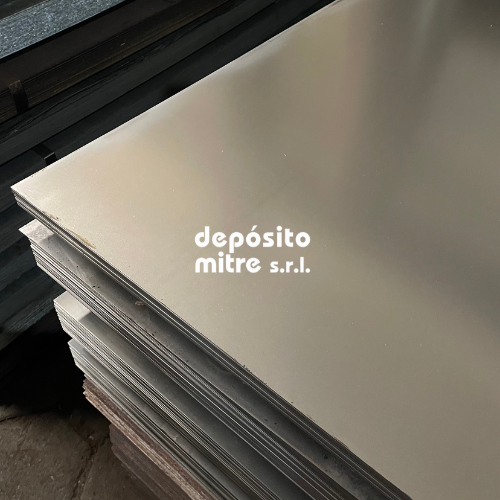
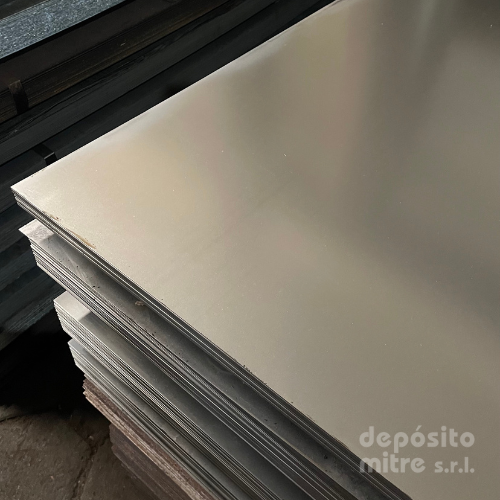
Beta 1.6.1

Changed region(s): [[0.39, 0.45, 0.63, 0.57], [0.72, 0.84, 0.96, 0.96]]

diff --git a/productos/rayada.html b/productos/rayada.html
@@ -177,7 +177,7 @@
 
         <section class="nosotros-flex">
             <div>
-                <img src="../img//marcas-de-agua/8.png" alt="im8">
+                <img src="../img/fotos-m-agua/camion-mitre(1).png" alt="im8">
             </div>
             <div>
                 <h6>Entregas en Capital Federal y Gran Buenos Aires</h6>
@@ -207,10 +207,7 @@
 
         <section class="maps">
             <div class="maps-01">
-                <div class="calidad-ternium" data-aos="fade-right" data-aos-offset="300" data-aos-easing="ease-in-sine"">
-                    <h5>Acero Ternium</h5>
-                    <p>Calidad y confianza en cada proyecto. Trabajamos con los mejores.</p>
-                   </div>
+               
             </div>
         </section>
 

diff --git a/productos/laminado-en-caliente.html b/productos/laminado-en-caliente.html
@@ -178,7 +178,7 @@
 
         <section class="nosotros-flex">
             <div>
-                <img src="../img//marcas-de-agua/8.png" alt="im8">
+                <img src="../img/marcas-de-agua/8.png" alt="im8">
             </div>
             <div>
                 <h6>Entregas en Capital Federal y Gran Buenos Aires</h6>
@@ -208,10 +208,7 @@
 
         <section class="maps">
             <div class="maps-01">
-                <div class="calidad-ternium" data-aos="fade-right" data-aos-offset="300" data-aos-easing="ease-in-sine"">
-                    <h5>Acero Ternium</h5>
-                    <p>Calidad y confianza en cada proyecto. Trabajamos con los mejores.</p>
-                   </div>
+               
             </div>
         </section>
 

diff --git a/css/style.css b/css/style.css
@@ -233,6 +233,7 @@ h1, h2 {
   right: 25px;
   width: 60px;
   transition: 2s;
+  z-index: 10;
 }
 .logos .logo-flotante-1:hover {
   transform: rotate(360deg);
@@ -466,10 +467,10 @@ hr {
   left: 0;
   right: 0;
   bottom: 0;
-  background-image: url("../img/banners/imgternium.jpg");
+  background-image: url("../img/banners/acero-02.jpg");
   background-size: cover;
   background-position: center;
-  filter: brightness(40%);
+  filter: brightness(90%);
   z-index: 1; /* Mantener el filtro detrás del contenido */
 }
 .maps .maps-01 .calidad-ternium {

diff --git a/productos/galvanizada.html b/productos/galvanizada.html
@@ -204,13 +204,9 @@
             </div>
         </section>
 
-
         <section class="maps">
             <div class="maps-01">
-                <div class="calidad-ternium" data-aos="fade-right" data-aos-offset="300" data-aos-easing="ease-in-sine"">
-                    <h5>Acero Ternium</h5>
-                    <p>Calidad y confianza en cada proyecto. Trabajamos con los mejores.</p>
-                   </div>
+               
             </div>
         </section>
 

diff --git a/scss/layout/_donde-estamos.scss b/scss/layout/_donde-estamos.scss
@@ -52,10 +52,10 @@
             left: 0;
             right: 0;
             bottom: 0;
-            background-image: url("../img/banners/imgternium.jpg");
+            background-image: url("../img/banners/acero-02.jpg");
             background-size: cover;
             background-position: center;
-            filter: brightness(40%);
+            filter: brightness(90%);
             z-index: 1; /* Mantener el filtro detrás del contenido */
         }
     

diff --git a/productos/antideslizante.html b/productos/antideslizante.html
@@ -211,10 +211,7 @@
 
         <section class="maps">
             <div class="maps-01">
-                <div class="calidad-ternium" data-aos="fade-right" data-aos-offset="300" data-aos-easing="ease-in-sine"">
-                    <h5>Acero Ternium</h5>
-                    <p>Calidad y confianza en cada proyecto. Trabajamos con los mejores.</p>
-                   </div>
+               
             </div>
         </section>
 

diff --git a/productos/laminado-frio.html b/productos/laminado-frio.html
@@ -208,10 +208,7 @@
 
         <section class="maps">
             <div class="maps-01">
-                <div class="calidad-ternium" data-aos="fade-right" data-aos-offset="300" data-aos-easing="ease-in-sine"">
-                    <h5>Acero Ternium</h5>
-                    <p>Calidad y confianza en cada proyecto. Trabajamos con los mejores.</p>
-                   </div>
+               
             </div>
         </section>
 

diff --git a/scss/layout/_divs-logos.scss b/scss/layout/_divs-logos.scss
@@ -6,6 +6,7 @@
         right: 25px;
         width: 60px;
         transition: 2s;
+        z-index: 10;
         &:hover{
             transform: rotate(360deg);
         }
